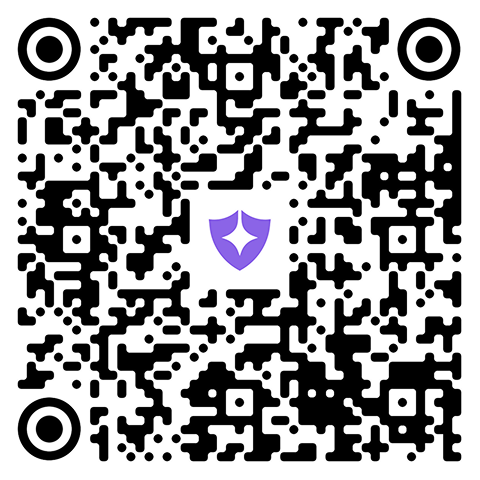
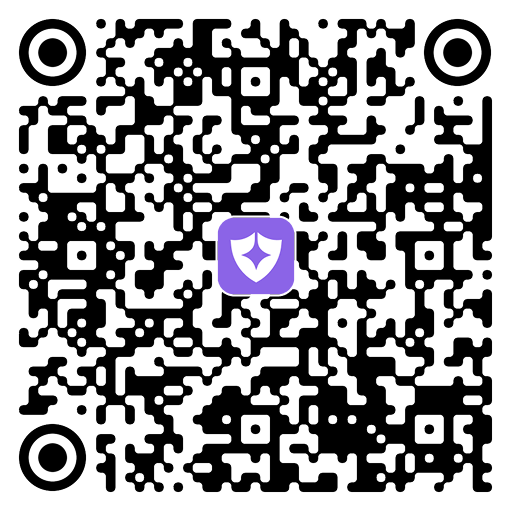
fix: change qrcode

diff --git a/src/page-components/DownloadSection/index.tsx b/src/page-components/DownloadSection/index.tsx
@@ -60,6 +60,7 @@ export default function DownloadSection() {
         whileInView={WHILE_IN_VIEW}
         viewport={VIEWPORT}
         variants={variantOpacity(1)}>
+        {/* <div className={styles.downloadSectionContainer}> */}
         <div className={styles.downloadContainerLeft}>
           <h1 className={styles.downloadTitle}>
             Get started with FairyVault <br />
@@ -68,7 +69,11 @@ export default function DownloadSection() {
           <h1 className={styles.downloadTitleMobile1}>Get started with FairyVault</h1>
           <h1 className={styles.downloadTitleMobile2}>Your gateway to the future of Web3.</h1>
           <div className={clsx(styles.buttonContainer)}>
-            <div className={clsx('flex-row-center-center', styles.containerAppStore)} onClick={() => {}}>
+            <div
+              className={clsx('flex-row-center-center', styles.containerAppStore)}
+              onClick={() => {
+                window.open('https://apps.apple.com/app/fairyvault/id6741625830', '_blank');
+              }}>
               {/* <div className="flex-row-center-center"> */}
               <CommonImage src={appstoreIos} className={styles.appStoreIcon} />
               <span className={styles.appStoreText}>Download for iOS</span>
@@ -126,6 +131,7 @@ export default function DownloadSection() {
           <CustomSvg type="downloadCoin" className={styles.downloadCoin} />
         </div>
         {/* <QRCode isAndroid={false} style={{ visibility: 'hidden' }} /> */}
+        {/* </div> */}
       </motion.div>
     </section>
   );

diff --git a/src/page-components/HomePageSection/FirstScreenSection/index.tsx b/src/page-components/HomePageSection/FirstScreenSection/index.tsx
@@ -195,7 +195,6 @@ export default function FirstScreenSection({ homeRef }: { homeRef: React.RefObje
     });
     return () => unsubscribe();
   }, [screenIndex, screenStack]);
-  console.log('wfs direction', direction);
   const springConfig = {
     stiffness: 150,
     damping: 30,
@@ -229,7 +228,11 @@ export default function FirstScreenSection({ homeRef }: { homeRef: React.RefObje
             while easily navigating the decentralised world.
           </span>
           <div className={clsx('flex-row-center-center', 'margin-top-64', 'gap-24', styles.downloadButtonContainer)}>
-            <div className={clsx('flex-row-center-center', styles.containerAppStore)} onClick={() => {}}>
+            <div
+              className={clsx('flex-row-center-center', styles.containerAppStore)}
+              onClick={() => {
+                window.open('https://apps.apple.com/app/fairyvault/id6741625830', '_blank');
+              }}>
               <div className="flex-row-center-center">
                 <CommonImage src={appstoreIos} className={styles.appStoreIcon} />
                 <span className={styles.appStoreText}>Download for iOS</span>

diff --git a/src/page-components/DownloadSection/QRCode.tsx b/src/page-components/DownloadSection/QRCode.tsx
@@ -1,11 +1,11 @@
 import { motion, MotionStyle } from 'framer-motion';
-import { fakeQRCode, androidQRCode } from 'assets/images';
+import { appleQRCode, androidQRCode } from 'assets/images';
 import CommonImage from 'components/CommonImage';
 import styles from './styles.module.less';
 export default function QRCode({ isAndroid, style }: { isAndroid: boolean; style?: MotionStyle }) {
   return (
     <motion.div className={styles.popupQrCodeContainer} style={style}>
-      <CommonImage src={isAndroid ? androidQRCode : fakeQRCode} className={styles.popupQrCode} layout="intrinsic" />
+      <CommonImage src={isAndroid ? androidQRCode : appleQRCode} className={styles.popupQrCode} layout="intrinsic" />
       <span className={styles.popupQrCodeText}>Scan to download</span>
     </motion.div>
   );

diff --git a/src/page-components/DownloadSection/styles.module.less b/src/page-components/DownloadSection/styles.module.less
@@ -4,13 +4,18 @@
   z-index: 1000;
   // overflow: visible;
   // position: relative;
+  display: flex;
+  align-items: center;
+  justify-content: center;
+  background: #1F1F21;
 }
 .downloadContainer {
   margin-top: 98px;
   height: 652px;
-  width: 100vw;
+  // width: 100vw;
+  max-width: 1280px;
   position: relative;
-  background: #1F1F21;
+  background: transparent;
   padding: 0px 0px 0px 80px;
   display: flex;
   align-items: flex-start;
@@ -35,7 +40,7 @@
 .downloadContainerRight {
   position: relative;
   margin-top: 80px;
-  overflow: hidden;
+  overflow: visible;
   margin-left: -195px;
 }
 .iphoneBg {

diff --git a/src/assets/images/index.ts b/src/assets/images/index.ts
@@ -56,7 +56,7 @@ import aelfScanEntry from './home/aelfScanEntry.svg';
 import Key from './home/Key.png';
 import Lock from './home/Lock.png';
 import Database from './home/Database.png';
-import fakeQRCode from './home/fakeQRCode.png';
+import appleQRCode from './home/appleQRCode.png';
 import iPhone from './home/iPhone.png';
 import androidQRCode from './home/androidQRCode.png';
 import iconFast from './iconFast.svg';
@@ -144,7 +144,7 @@ export {
   Key,
   Lock,
   Database,
-  fakeQRCode,
+  appleQRCode,
   iPhone,
   androidQRCode,
   eoaScreen1,
